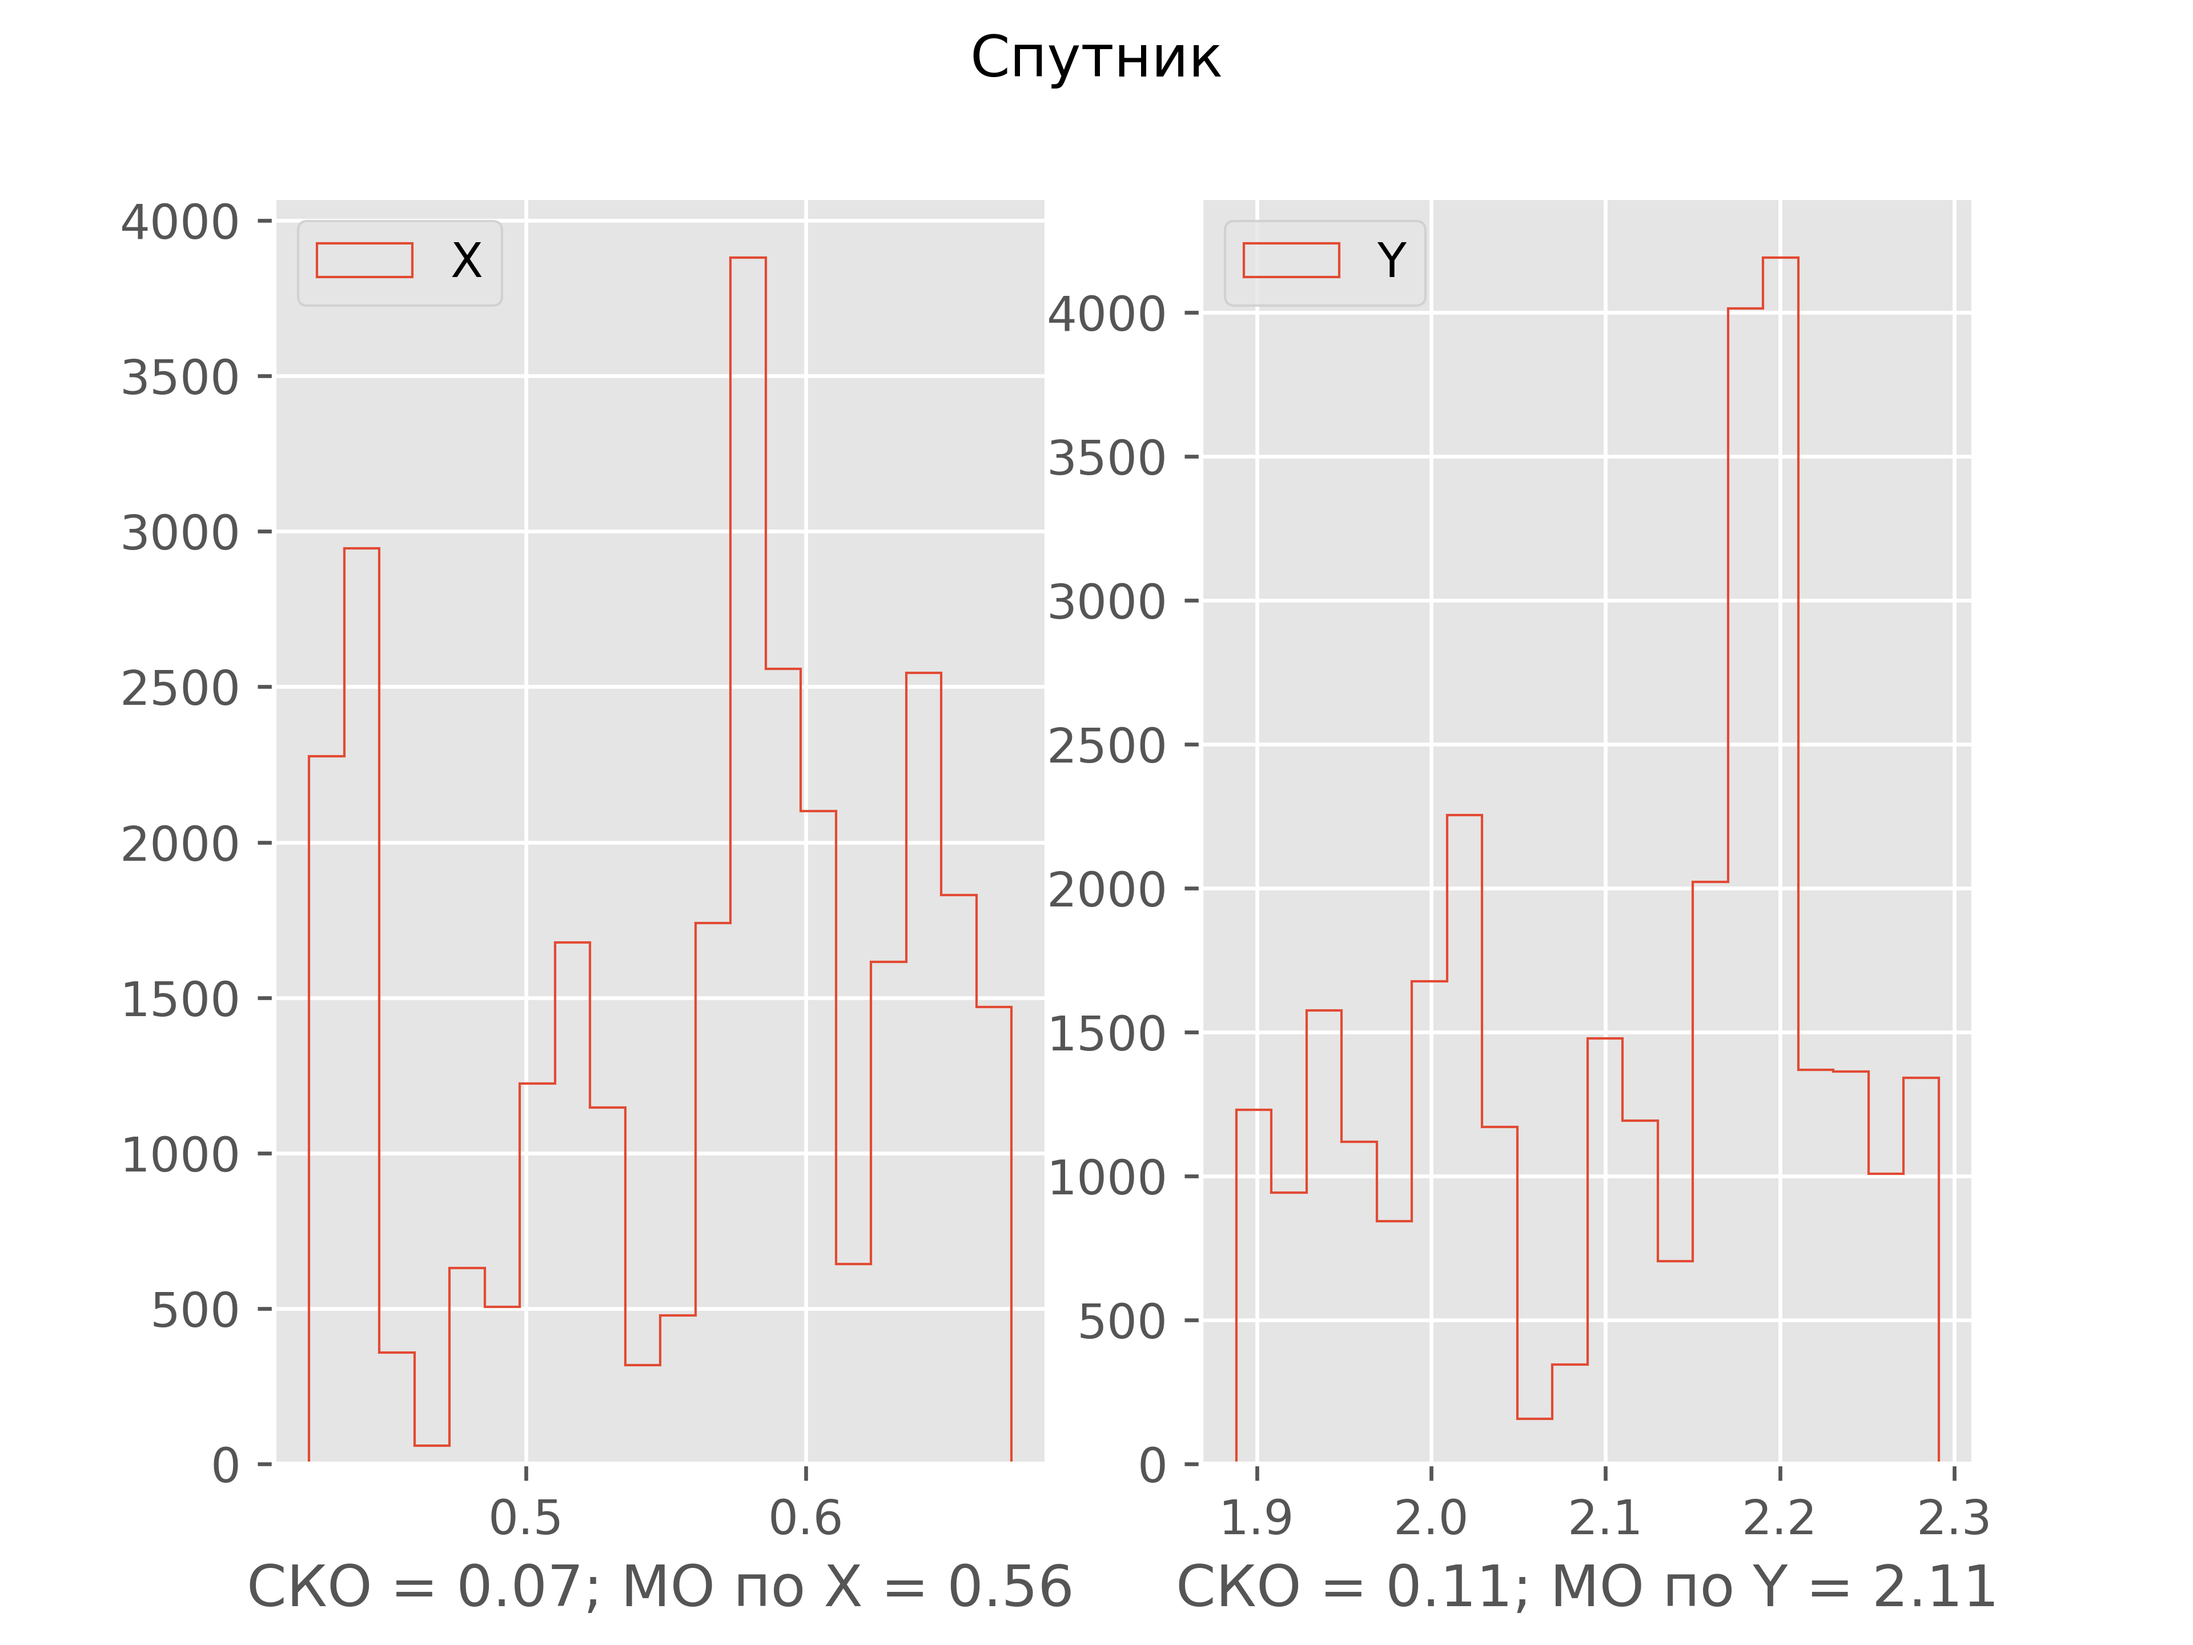
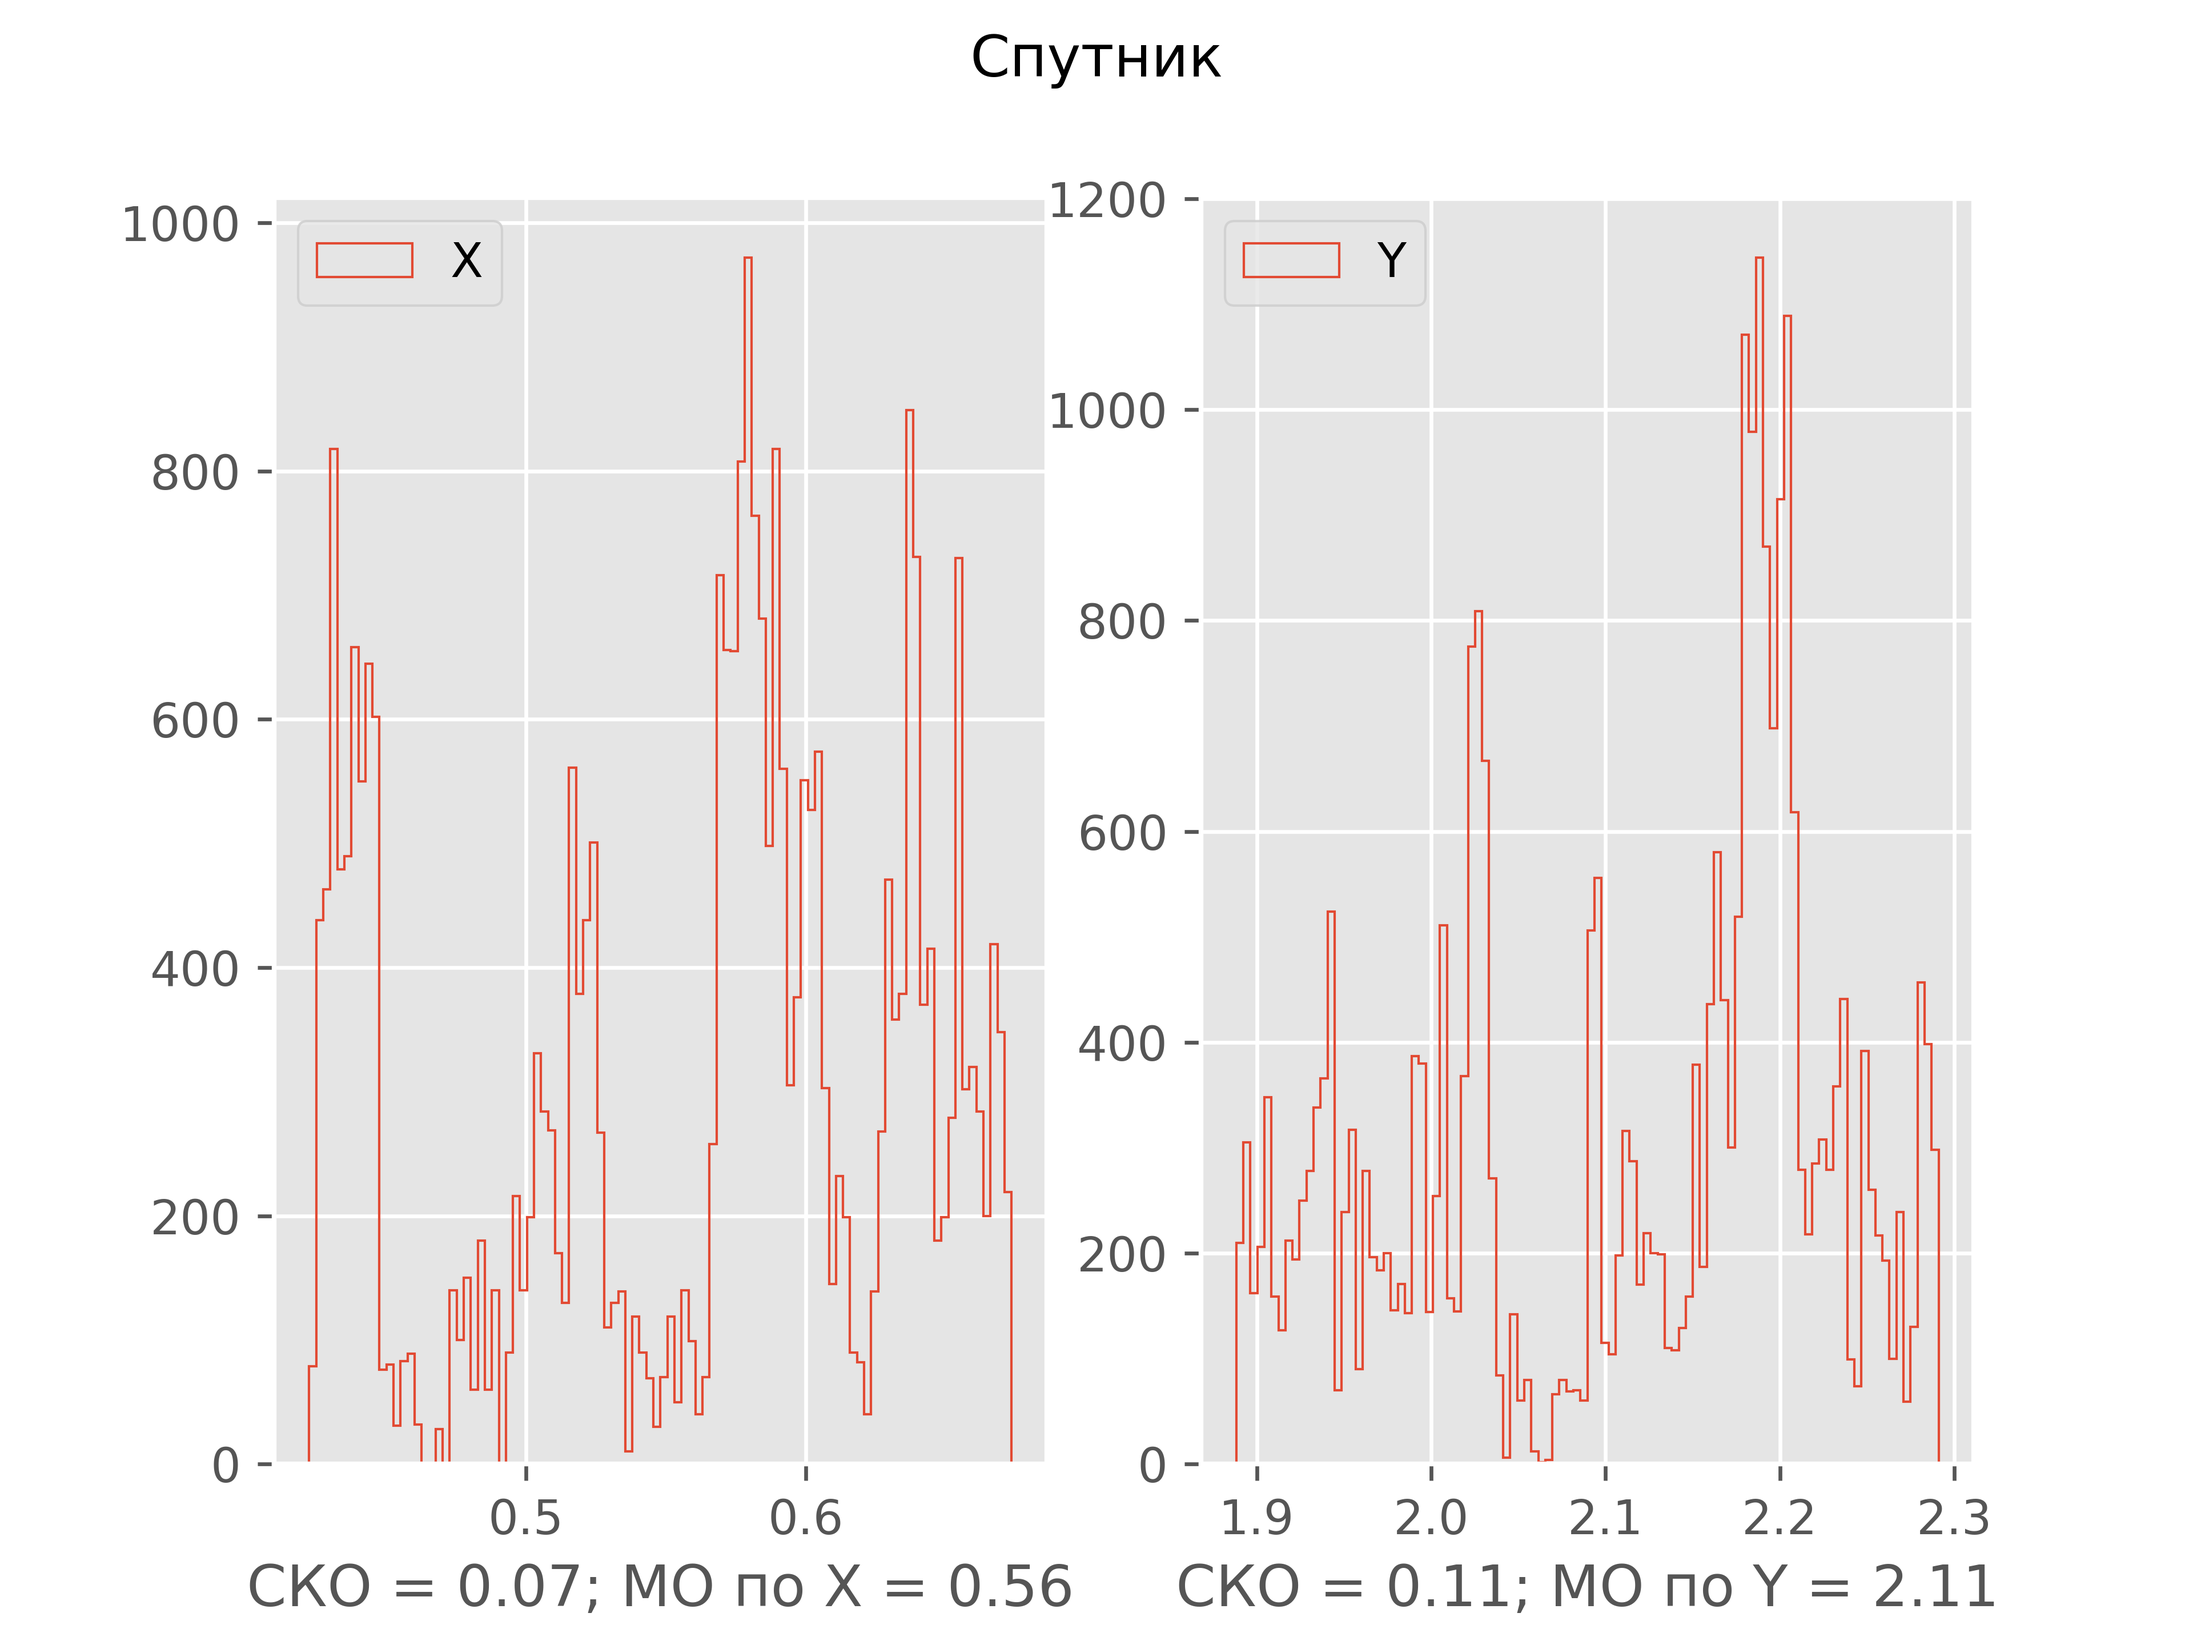
Borovici update 5

diff --git a/zhenek/borovici/main.py b/zhenek/borovici/main.py
@@ -64,41 +64,71 @@ def rachet(df, xy, gnss, rtsln, num):
     h = np.mean(xy["h"])
 
     pylab.subplot(1, 2, 1)
-    pylab.hist(x_dist - e, bins=100, histtype='step', label=('X',))
+    pylab.hist(x_dist - e, bins=100, histtype='step', label=('X',), linewidth=1.2)
     pylab.legend(loc=2)
     plt.xlabel(f'СКО = {round(np.std(x_dist), 2)}; МО по X = {round(np.mean(x_dist) - e, 2)}')
+    for spine in plt.gca().spines.values():
+        spine.set_color('black')
+        spine.set_linewidth(1.5)
+    plt.grid(color='gray', alpha=0.7, linestyle='--')
+    plt.gca().set_facecolor('white')
 
     pylab.subplot(1, 2, 2)
-    pylab.hist(y_dist - n, bins=100, histtype='step', label=('Y',))
+    pylab.hist(y_dist - n, bins=100, histtype='step', label=('Y',), linewidth=1.2)
     pylab.legend(loc=2)
     plt.xlabel(f'СКО = {round(np.std(y_dist), 2)}; МО по Y = {round(np.mean(y_dist) - n, 2)}')
     plt.suptitle("Алгоритм Python")
+    for spine in plt.gca().spines.values():
+        spine.set_color('black')
+        spine.set_linewidth(1.5)
+    plt.grid(color='gray', alpha=0.7, linestyle='--')
+    plt.gca().set_facecolor('white')
     plt.savefig(f'{num}/png/4.png', dpi=600)
     pylab.show()
 
     pylab.subplot(1, 2, 1)
-    pylab.hist(rtsln["E"] - e, bins=100, histtype='step', label=('X',))
+    pylab.hist(rtsln["E"] - e, bins=100, histtype='step', label=('X',), linewidth=1.2)
     pylab.legend(loc=2)
     plt.xlabel(f'СКО = {round(np.std(rtsln["E"]), 2)}; МО по X = {round(np.mean(rtsln["E"]) - e, 2)}')
+    for spine in plt.gca().spines.values():
+        spine.set_color('black')
+        spine.set_linewidth(1.5)
+    plt.grid(color='gray', alpha=0.7, linestyle='--')
+    plt.gca().set_facecolor('white')
 
     pylab.subplot(1, 2, 2)
-    pylab.hist(rtsln["N"] - n, bins=100, histtype='step', label=('Y',))
+    pylab.hist(rtsln["N"] - n, bins=100, histtype='step', label=('Y',), linewidth=1.2)
     pylab.legend(loc=2)
     plt.xlabel(f'СКО = {round(np.std(rtsln["N"]), 2)}; МО по Y = {round(np.mean(rtsln["N"]) - n, 2)}')
     plt.suptitle("Алгоритм С")
+    for spine in plt.gca().spines.values():
+        spine.set_color('black')
+        spine.set_linewidth(1.5)
+    plt.grid(color='gray', alpha=0.7, linestyle='--')
+    plt.gca().set_facecolor('white')
     plt.savefig(f'{num}/png/5.png', dpi=600)
     pylab.show()
 
     pylab.subplot(1, 2, 1)
-    pylab.hist(gnss["E"] - e, bins=100, histtype='step', label=('X',))
+    pylab.hist(gnss["E"] - e, bins=100, histtype='step', label=('X',), linewidth=1.2)
     pylab.legend(loc=2)
     plt.xlabel(f'СКО = {round(np.std(gnss["E"]), 2)}; МО по X = {round(np.mean(gnss["E"]) - e, 2)}')
+    for spine in plt.gca().spines.values():
+        spine.set_color('black')
+        spine.set_linewidth(1.5)
+    plt.grid(color='gray', alpha=0.7, linestyle='--')
+    plt.gca().set_facecolor('white')
 
     pylab.subplot(1, 2, 2)
-    pylab.hist(gnss["N"] - n, bins=100, histtype='step', label=('Y',))
+    pylab.hist(gnss["N"] - n, bins=100, histtype='step', label=('Y',), linewidth=1.2)
     pylab.legend(loc=2)
     plt.xlabel(f'СКО = {round(np.std(gnss["N"]), 2)}; МО по Y = {round(np.mean(gnss["N"]) - n, 2)}')
     plt.suptitle("Спутник")
+    for spine in plt.gca().spines.values():
+        spine.set_color('black')
+        spine.set_linewidth(1.5)
+    plt.grid(color='gray', alpha=0.7, linestyle='--')
+    plt.gca().set_facecolor('white')
     plt.savefig(f'{num}/png/6.png', dpi=600)
     pylab.show()
 
@@ -112,32 +142,69 @@ def rachet(df, xy, gnss, rtsln, num):
         (np.mean(rtsln["E"]), np.mean(rtsln["N"]))
     ]
     labels = ['Ref', 'Python', 'GNSS', 'C']
+    colors = ["red", "blue", "green", "purple"]
     plt.figure()
 
     for i, point in enumerate(points):
-        plt.scatter(point[0], point[1], label=labels[i])
+        plt.scatter(point[0], point[1], label=labels[i], c=colors[i])
         plt.text(point[0], point[1], labels[i], fontsize=12, ha='right')
 
     # Создаем окружности
-    circle1 = plt.Circle(points[0], disss(points[0], points[1]), color='blue', fill=False)
-    circle2 = plt.Circle(points[0], disss(points[0], points[2]), color='gray', fill=False)
-    circle3 = plt.Circle(points[0], disss(points[0], points[3]), color='purple', fill=False)
+    circle1 = plt.Circle(points[0], disss(points[0], points[1]), color='blue', fill=False, linewidth=2)
+    circle2 = plt.Circle(points[0], disss(points[0], points[2]), color='green', fill=False, linewidth=2)
+    circle3 = plt.Circle(points[0], disss(points[0], points[3]), color='purple', fill=False, linewidth=2)
 
     # Добавляем окружности на график
     plt.gca().add_artist(circle1)
     plt.gca().add_artist(circle2)
     plt.gca().add_artist(circle3)
 
+
     plt.xlabel('X')
     plt.ylabel('Y')
     plt.title('Точки на координатной плоскости')
-    plt.xlim(points[0][0]-3, points[0][0]+3)
-    plt.ylim(points[0][1]-3, points[0][1]+3)
+    plt.xlim(points[0][0] - 3, points[0][0] + 3)
+    plt.ylim(points[0][1] - 3, points[0][1] + 3)
+    plt.xlabel('X, м')
+    plt.ylabel('Y, м')
+    plt.gca().set_aspect('equal', adjustable='box')
+    for spine in plt.gca().spines.values():
+        spine.set_color('black')
+        spine.set_linewidth(1.5)
+    plt.grid(color='gray', alpha=0.7, linestyle='--')
+    plt.gca().set_facecolor('white')
+
+    plt.text(plt.xlim()[1],
+             plt.ylim()[1]-0.2,
+             f'Python - {round(disss(points[0], points[1]), 2)} м.',
+             fontsize=12,
+             ha='right',
+             va='top',
+             color='blue')
+
+    plt.text(plt.xlim()[1],
+             plt.ylim()[1] - 0.6,
+             f'GNSS - {round(disss(points[0], points[2]), 2)} м.',
+             fontsize=12,
+             ha='right',
+             va='top',
+             color='green')
+
+    plt.text(plt.xlim()[1],
+             plt.ylim()[1] - 1,
+             f'C - {round(disss(points[0], points[3]), 2)} м.',
+             fontsize=12,
+             ha='right',
+             va='top',
+             color='purple')
+
+    plt.savefig(f'{num}/png/7.png', dpi=600)
     plt.show()
 
 
 def dist_sko(df, num):
     plt.style.use("ggplot")
+
     valid = 0
     for i in range(1, 9):
         if df[str(i)][1000] > 50:
@@ -152,14 +219,19 @@ def dist_sko(df, num):
             sum = 0
             for j in range(1, 10001):
                 sum += a[str(i)][:10000][j - 1]
-                filt.append(sum / j - mean)
+                filt.append(sum / j)
                 print(j)
 
-            axs[valid].plot(df['time'][:10000], a[str(i)][:10000] - mean)
+            axs[valid].plot(df['time'][:10000], a[str(i)][:10000])
             axs[valid].plot(df['time'][:10000], filt)
             axs[valid].set_title(f'РЭМ-{i}')
             axs[valid].set_xlabel('Время, с')
             axs[valid].set_ylabel('Дальность, м')
+            for spine in axs[valid].spines.values():
+                spine.set_color('black')
+                spine.set_linewidth(1.5)
+            axs[valid].set_facecolor('white')
+            axs[valid].grid(color='gray', alpha=0.7, linestyle='--')
             # axs[valid].set_ylim(-0.2, 0.2)
             valid += 1
 
@@ -167,6 +239,7 @@ def dist_sko(df, num):
     plt.subplots_adjust(hspace=1)
 
     # Отображаем график
+
     plt.savefig(f'{num}/png/2.png', dpi=600)
     plt.show()
 
@@ -187,12 +260,19 @@ def dist_sko(df, num):
             plt.xlabel('Время, с')
             plt.ylabel('Дальность, м')
             plt.title('Осреднение дальностей')
+            for spine in plt.gca().spines.values():
+                spine.set_color('black')
+                spine.set_linewidth(1.5)
+            plt.grid(color='gray', alpha=0.7, linestyle='--')
+            plt.gca().set_facecolor('white')
+            plt.savefig(f'{num}/png/3.png', dpi=600)
             plt.show()
             break
 
 
 def dist(df, num):
     plt.style.use("ggplot")
+
     # Строим графики
     for i in range(1, 9):
         if df[str(i)][1000] > 50:
@@ -208,7 +288,11 @@ def dist(df, num):
     plt.xlabel('Время, с')
     plt.ylabel('Дистанции, м')
     plt.title("Дальности")
-
+    for spine in plt.gca().spines.values():
+        spine.set_color('black')
+        spine.set_linewidth(1.5)
+    plt.gca().set_facecolor('white')
+    plt.grid(color='gray', alpha=0.7, linestyle='--')
     plt.savefig(f'{num}/png/1.png', dpi=600)
     # Отображаем график
     plt.show()
